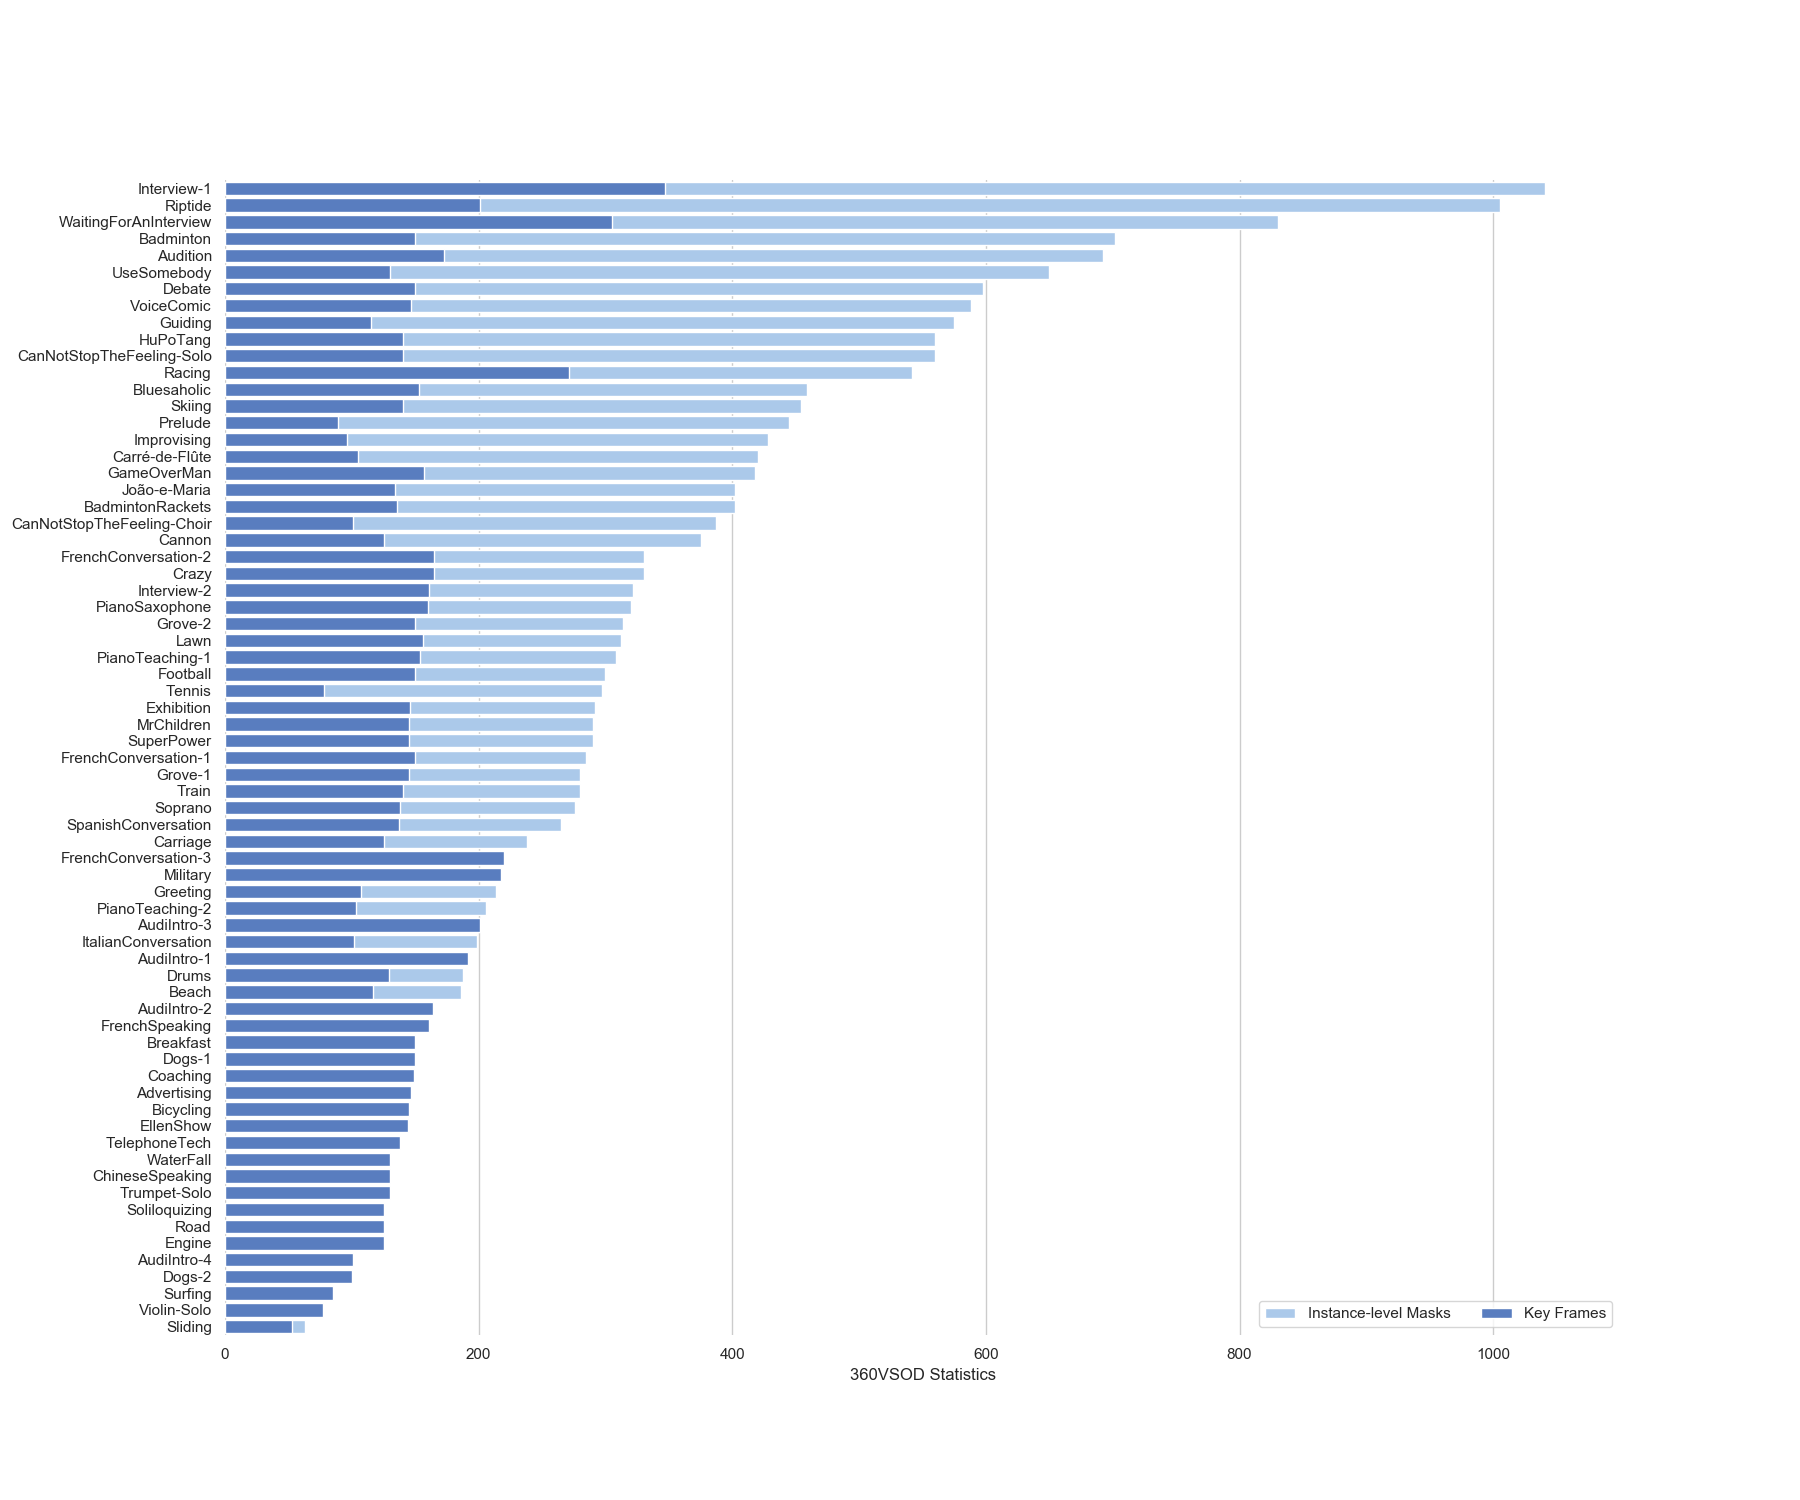
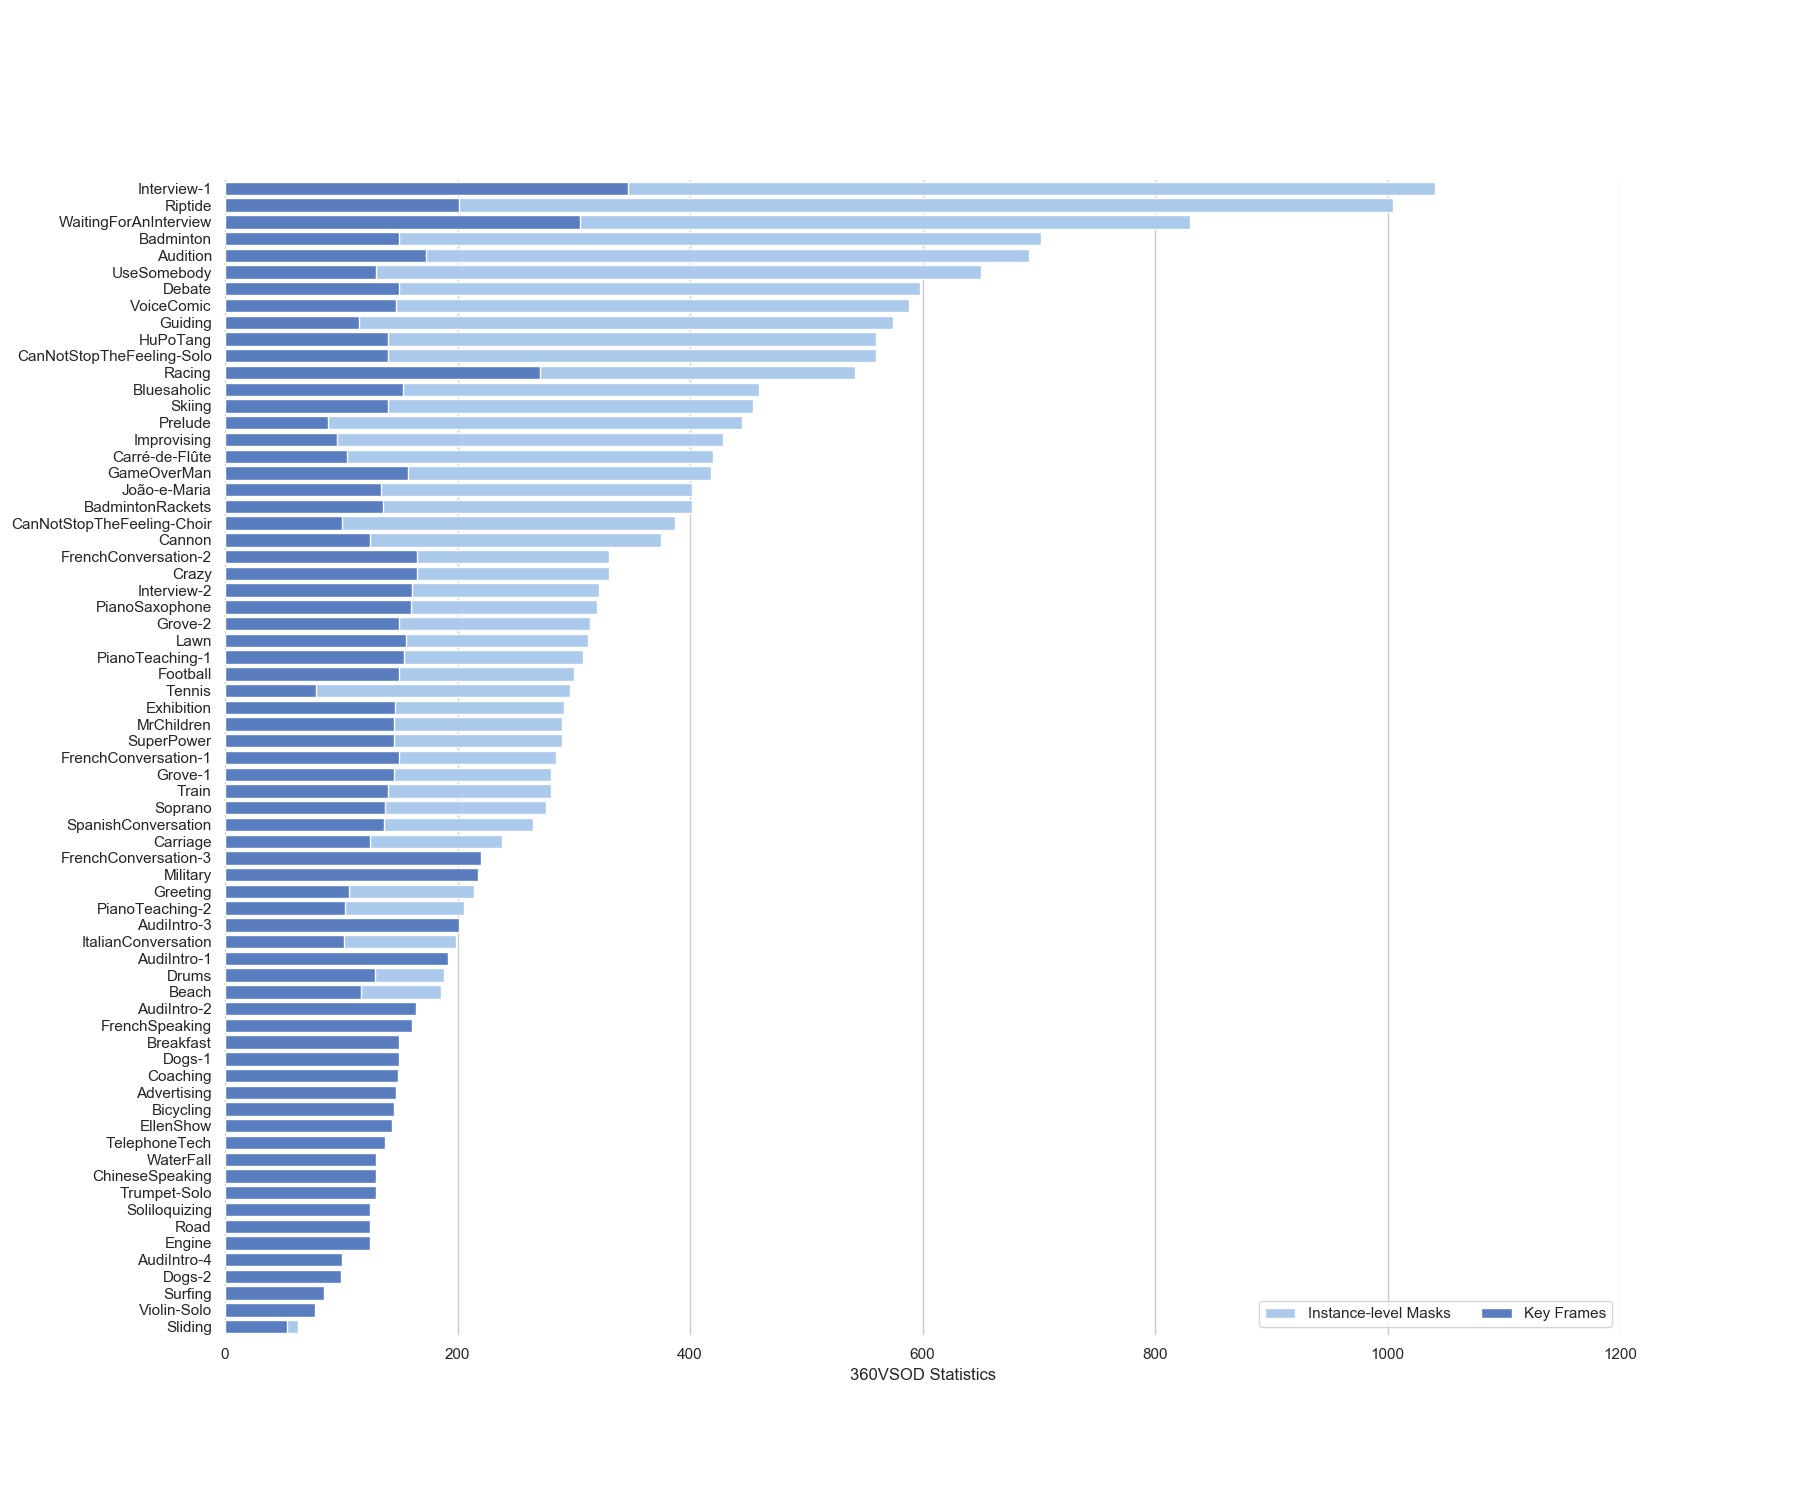
Add files via upload

diff --git a/360VSOD/360VSOD_barplot.py b/360VSOD/360VSOD_barplot.py
@@ -1,12 +1,30 @@
-"""
-Horizontal bar plots
-====================
-
-"""
 import seaborn as sns
 import matplotlib.pyplot as plt
 import pandas as pd
+import numpy as np
 sns.set(style="whitegrid")
+
+index = ['CanNotStopTheFeeling-Choir', 'UseSomebody', 'João-e-Maria', 'MrChildren', 'Improvising', 'Riptide',
+             'CanNotStopTheFeeling-Solo', 'Crazy', 'Soprano', 'FrenchConversation-3', 'FrenchConversation-1',
+             'ItalianConversation', 'Interview-2', 'Football', 'FrenchConversation-2', 'SpanishConversation',
+             'Exhibition', 'BadmintonRackets', 'Racing', 'PianoTeaching-2', 'Grove-1', 'Lawn', 'PianoTeaching-1',
+             'Debate', 'GameOverMan', 'VoiceComic', 'Grove-2', 'Skiing', 'Audition', 'Carré-de-Flûte', 'Prelude',
+             'Cannon', 'Bluesaholic', 'Trumpet-Solo', 'Violin-Solo', 'Drums', 'PianoSaxophone', 'Badminton', 'Beach',
+             'Engine', 'Tennis', 'Train', 'Bicycling', 'Carriage', 'Road', 'WaterFall', 'Dogs-2', 'Sliding', 'Dogs-1',
+             'ChineseSpeaking', 'FrenchSpeaking', 'Soliloquizing', 'Military', 'Surfing', 'AudiIntro-1', 'Greeting',
+             'AudiIntro-4', 'Coaching', 'Breakfast', 'TelephoneTech', 'Guiding', 'AudiIntro-2', 'AudiIntro-3',
+             'SuperPower', 'Advertising', 'WaitingForAnInterview', 'EllenShow', 'Interview-1', 'HuPoTang']
+keyFrames = [101, 130, 134, 145, 96, 201, 140, 165, 138, 220, 150, 102, 161, 150, 165, 137, 146, 136, 271, 103,
+                 145, 156, 154, 150, 157, 147, 150, 140, 173, 105, 89, 125, 153, 130, 77, 129, 160, 150, 117, 125, 78,
+                 140, 145, 125, 125, 130, 100, 53, 150, 130, 161, 125, 218, 85, 192, 107, 101, 149, 150, 138, 115, 164,
+                 201, 145, 147, 305, 144, 347, 140]
+objMasks = [387, 650, 402, 290, 428, 1005, 560, 330, 276, 220, 285, 199, 322, 300, 330, 265, 292, 402, 542, 206,
+                280, 312, 308, 598, 418, 588, 314, 454, 692, 420, 445, 375, 459, 130, 77, 188, 320, 702, 186, 125, 297,
+                280, 145, 238, 125, 130, 100, 63, 150, 130, 161, 125, 218, 85, 192, 214, 101, 149, 150, 138, 575, 164,
+                201, 290, 147, 830, 144, 1041, 560]
+subClasses = ['choir', 'vocal solo', 'dialogue', 'group chat', 'musical ensemble', 'solo', 'duet',
+            'miscellaneous sources', 'male narrator', 'female narrator', 'f&m narrators']
+numVids = [3, 6, 14, 5, 5, 2, 2, 12, 14, 4, 2]
 
 def sns_official():
     # Initialize the matplotlib figure
@@ -59,25 +77,6 @@ def sod_plot():
     # Initialize the matplotlib figure
     f, ax = plt.subplots(figsize=(18, 15))
 
-    index = ['CanNotStopTheFeeling-Choir', 'UseSomebody', 'João-e-Maria', 'MrChildren', 'Improvising', 'Riptide',
-             'CanNotStopTheFeeling-Solo', 'Crazy', 'Soprano', 'FrenchConversation-3', 'FrenchConversation-1',
-             'ItalianConversation', 'Interview-2', 'Football', 'FrenchConversation-2', 'SpanishConversation',
-             'Exhibition', 'BadmintonRackets', 'Racing', 'PianoTeaching-2', 'Grove-1', 'Lawn', 'PianoTeaching-1',
-             'Debate', 'GameOverMan', 'VoiceComic', 'Grove-2', 'Skiing', 'Audition', 'Carré-de-Flûte', 'Prelude',
-             'Cannon', 'Bluesaholic', 'Trumpet-Solo', 'Violin-Solo', 'Drums', 'PianoSaxophone', 'Badminton', 'Beach',
-             'Engine', 'Tennis', 'Train', 'Bicycling', 'Carriage', 'Road', 'WaterFall', 'Dogs-2', 'Sliding', 'Dogs-1',
-             'ChineseSpeaking', 'FrenchSpeaking', 'Soliloquizing', 'Military', 'Surfing', 'AudiIntro-1', 'Greeting',
-             'AudiIntro-4', 'Coaching', 'Breakfast', 'TelephoneTech', 'Guiding', 'AudiIntro-2', 'AudiIntro-3',
-             'SuperPower', 'Advertising', 'WaitingForAnInterview', 'EllenShow', 'Interview-1', 'HuPoTang']
-    keyFrames = [101, 130, 134, 145, 96, 201, 140, 165, 138, 220, 150, 102, 161, 150, 165, 137, 146, 136, 271, 103,
-                 145, 156, 154, 150, 157, 147, 150, 140, 173, 105, 89, 125, 153, 130, 77, 129, 160, 150, 117, 125, 78,
-                 140, 145, 125, 125, 130, 100, 53, 150, 130, 161, 125, 218, 85, 192, 107, 101, 149, 150, 138, 115, 164,
-                 201, 145, 147, 305, 144, 347, 140]
-    objMasks = [387, 650, 402, 290, 428, 1005, 560, 330, 276, 220, 285, 199, 322, 300, 330, 265, 292, 402, 542, 206,
-                280, 312, 308, 598, 418, 588, 314, 454, 692, 420, 445, 375, 459, 130, 77, 188, 320, 702, 186, 125, 297,
-                280, 145, 238, 125, 130, 100, 63, 150, 130, 161, 125, 218, 85, 192, 214, 101, 149, 150, 138, 575, 164,
-                201, 290, 147, 830, 144, 1041, 560]
-
     SODDataSet = pd.DataFrame({'index': index, 'keyFrames': keyFrames, 'objMasks': objMasks}, index=index).\
         sort_values('objMasks', ascending=False)
 
@@ -88,13 +87,43 @@ def sod_plot():
     sns.barplot(x='keyFrames', y='index', data=SODDataSet, label='Key Frames', color='b')
 
     ax.legend(ncol=2, loc="lower right", frameon=True)
-    ax.set(xlim=(0, 1100), ylabel="", xlabel="360VSOD Statistics")
+    ax.set(xlim=(0, 1200), ylabel="", xlabel="360VSOD Statistics")
     sns.despine(left=True, bottom=True)
- 
+
     plt.savefig('BarPlot_1.png')
+
+def subClass_plot():
+    sc_keyFrm = [np.sum(keyFrames[:3]), np.sum(keyFrames[3:9]), np.sum(keyFrames[9:23]), np.sum(keyFrames[23:28]),
+                 np.sum(keyFrames[28:33]), np.sum(keyFrames[33:35]), np.sum(keyFrames[35:37]), np.sum(keyFrames[37:49]),
+                 np.sum(keyFrames[49:63]), np.sum(keyFrames[63:67]), np.sum(keyFrames[67:69])]
+    sc_objMsk = [np.sum(objMasks[:3]), np.sum(objMasks[3:9]), np.sum(objMasks[9:23]), np.sum(objMasks[23:28]),
+                 np.sum(objMasks[28:33]), np.sum(objMasks[33:35]), np.sum(objMasks[35:37]), np.sum(objMasks[37:49]),
+                 np.sum(objMasks[49:63]), np.sum(objMasks[63:67]), np.sum(objMasks[67:69])]
+
+    # Initialize the matplotlib figure
+    f, ax = plt.subplots(figsize=(15, 15))
+
+    sc = pd.DataFrame({'subClass': subClasses, 'numVids': numVids, 'sc_keyFrm': sc_keyFrm, 'sc_objMsk': sc_objMsk},
+                      index=subClasses).sort_values('sc_objMsk', ascending=False)
+
+    sns.set_color_codes('pastel')
+    sns.barplot(x='sc_objMsk', y='subClass', data=sc, label='Instance-level Masks', color='m')
+
+    sns.set_color_codes("muted")
+    sns.barplot(x='sc_keyFrm', y='subClass', data=sc, label='Key Frames', color='m')
+
+    #sns.set_color_codes("deep")
+    #sns.barplot(x='numVids', y='subClass', data=sc, label='Videos', color='m')
+
+    ax.legend(ncol=2, loc="lower right", frameon=True)
+    ax.set(xlim=(0, 4500), ylabel="", xlabel="360VSOD Sub-classes")
+    sns.despine(left=True, bottom=True)
+
+    plt.savefig('BarPlot_2.png')
 
 
 if __name__ == '__main__':
+    subClass_plot()
     sod_plot()
     #sns_official()
     #self_plot()
